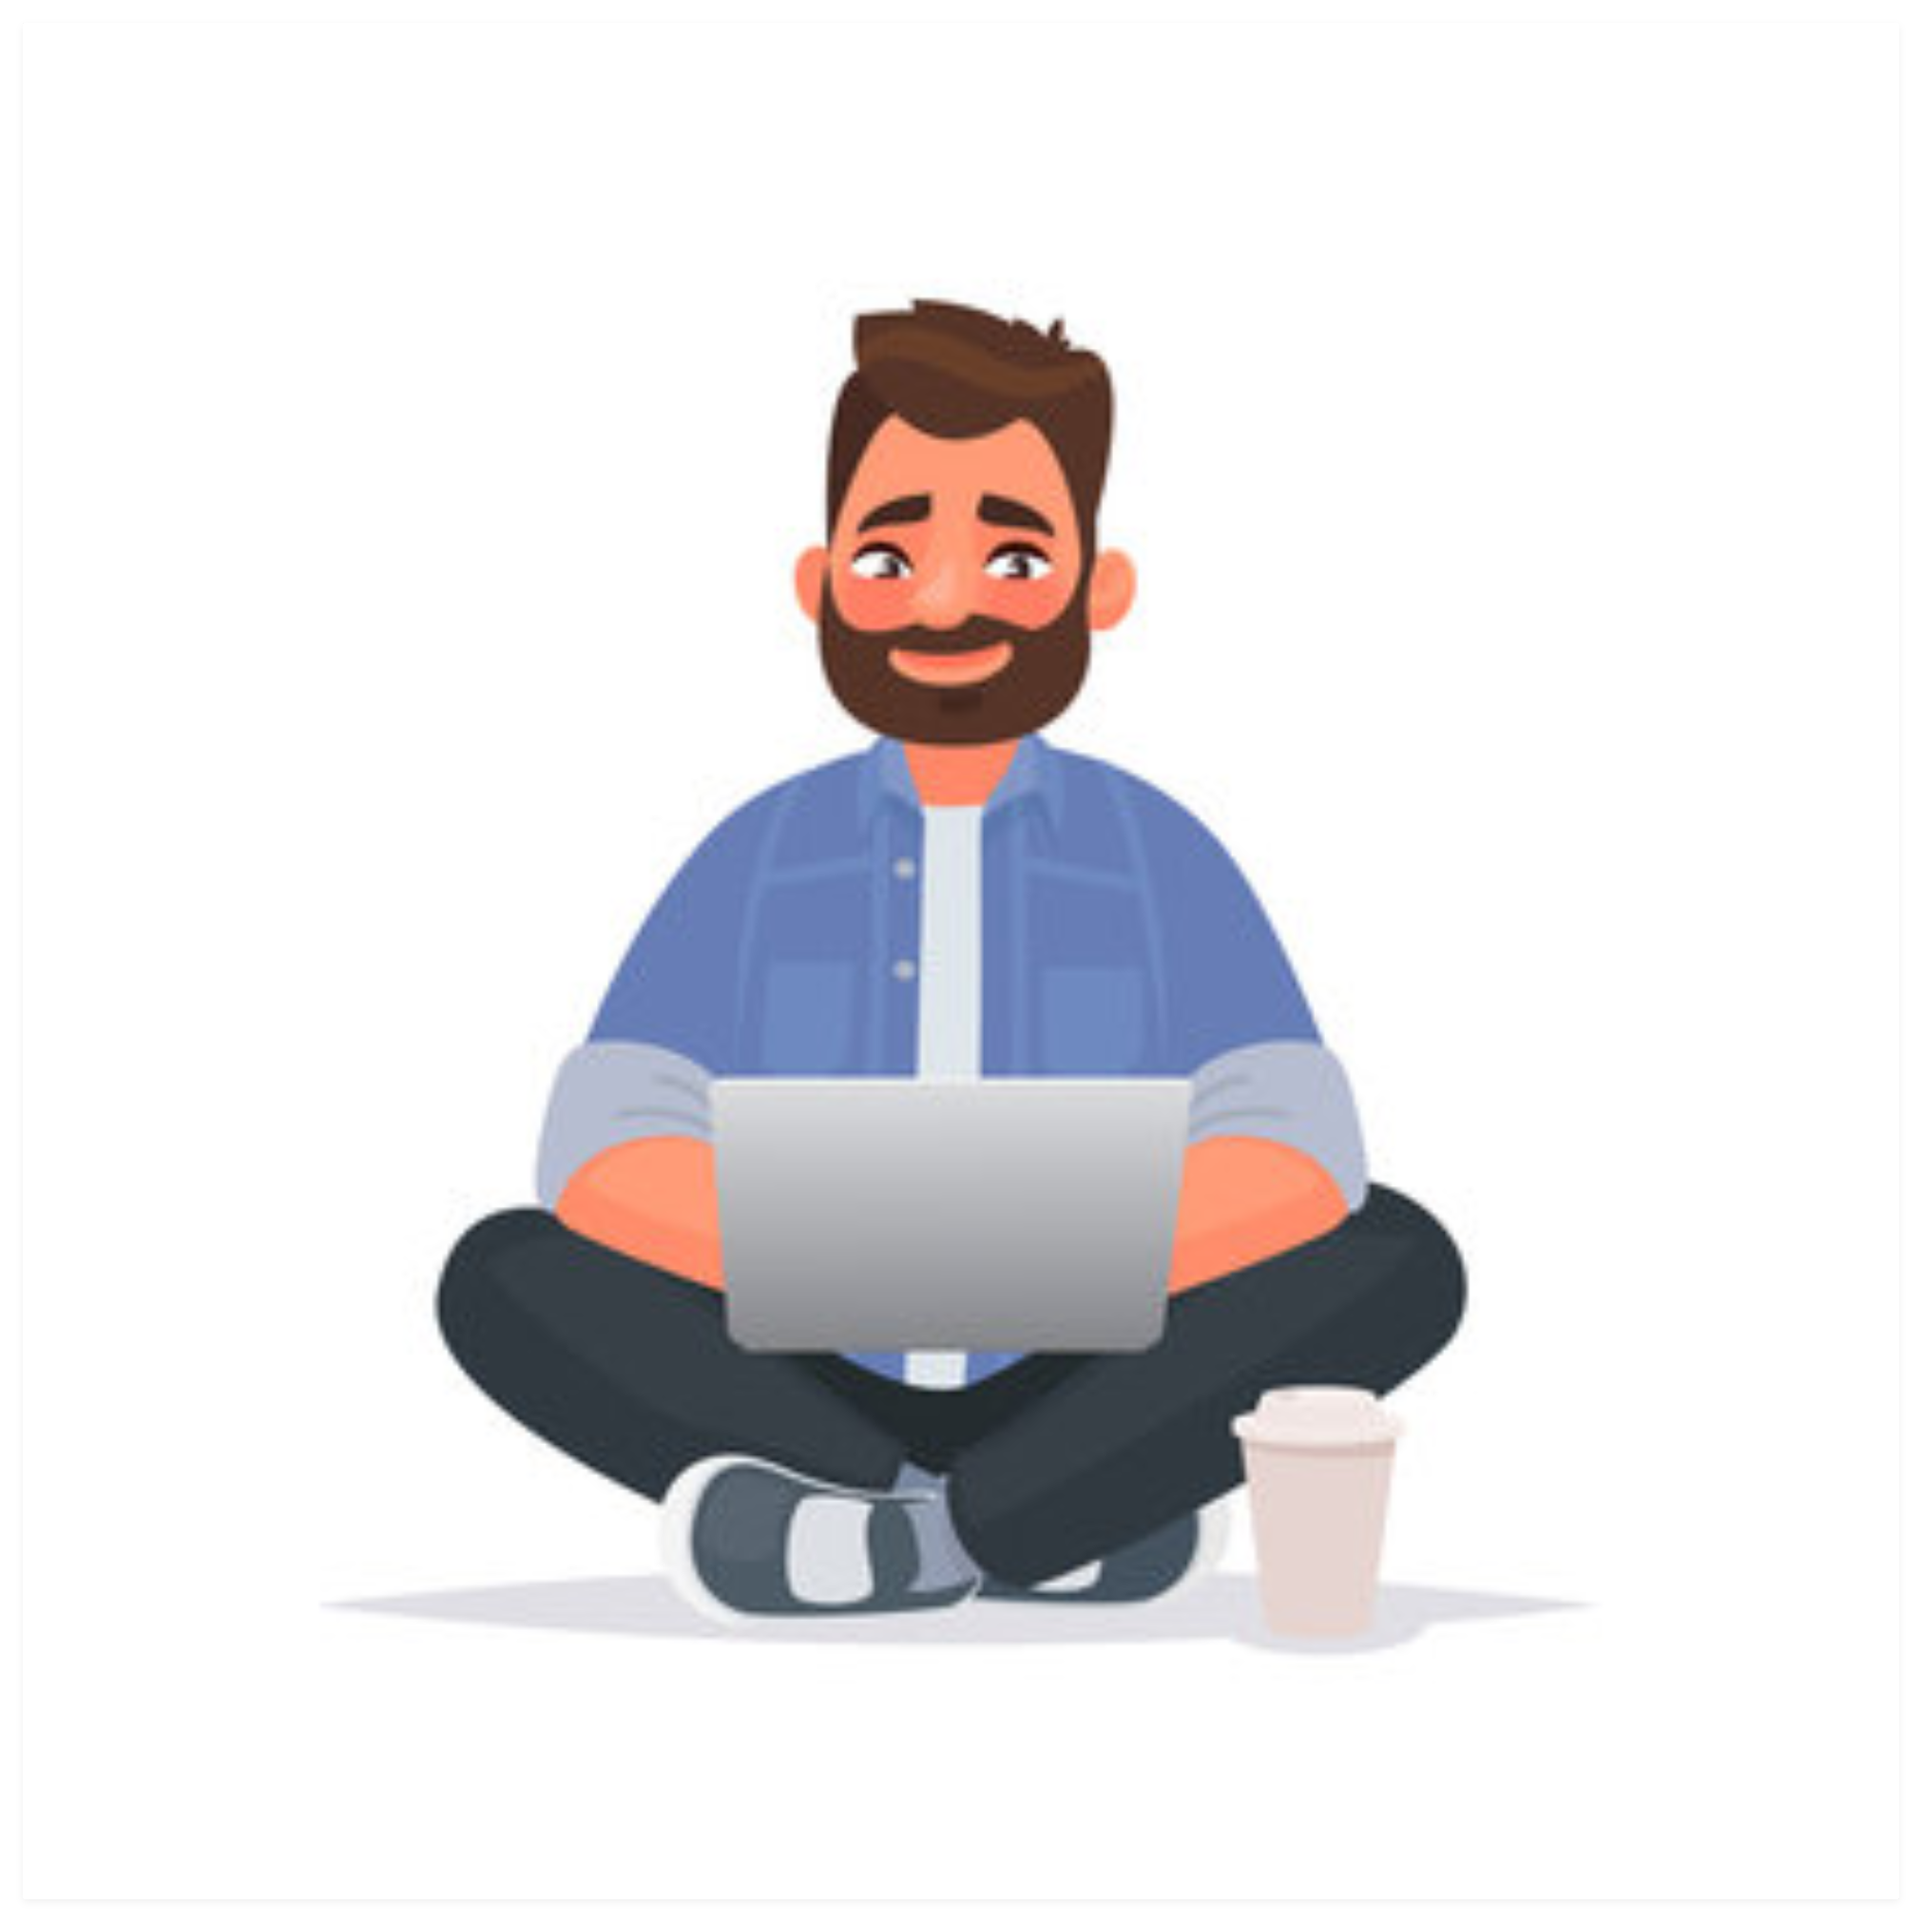
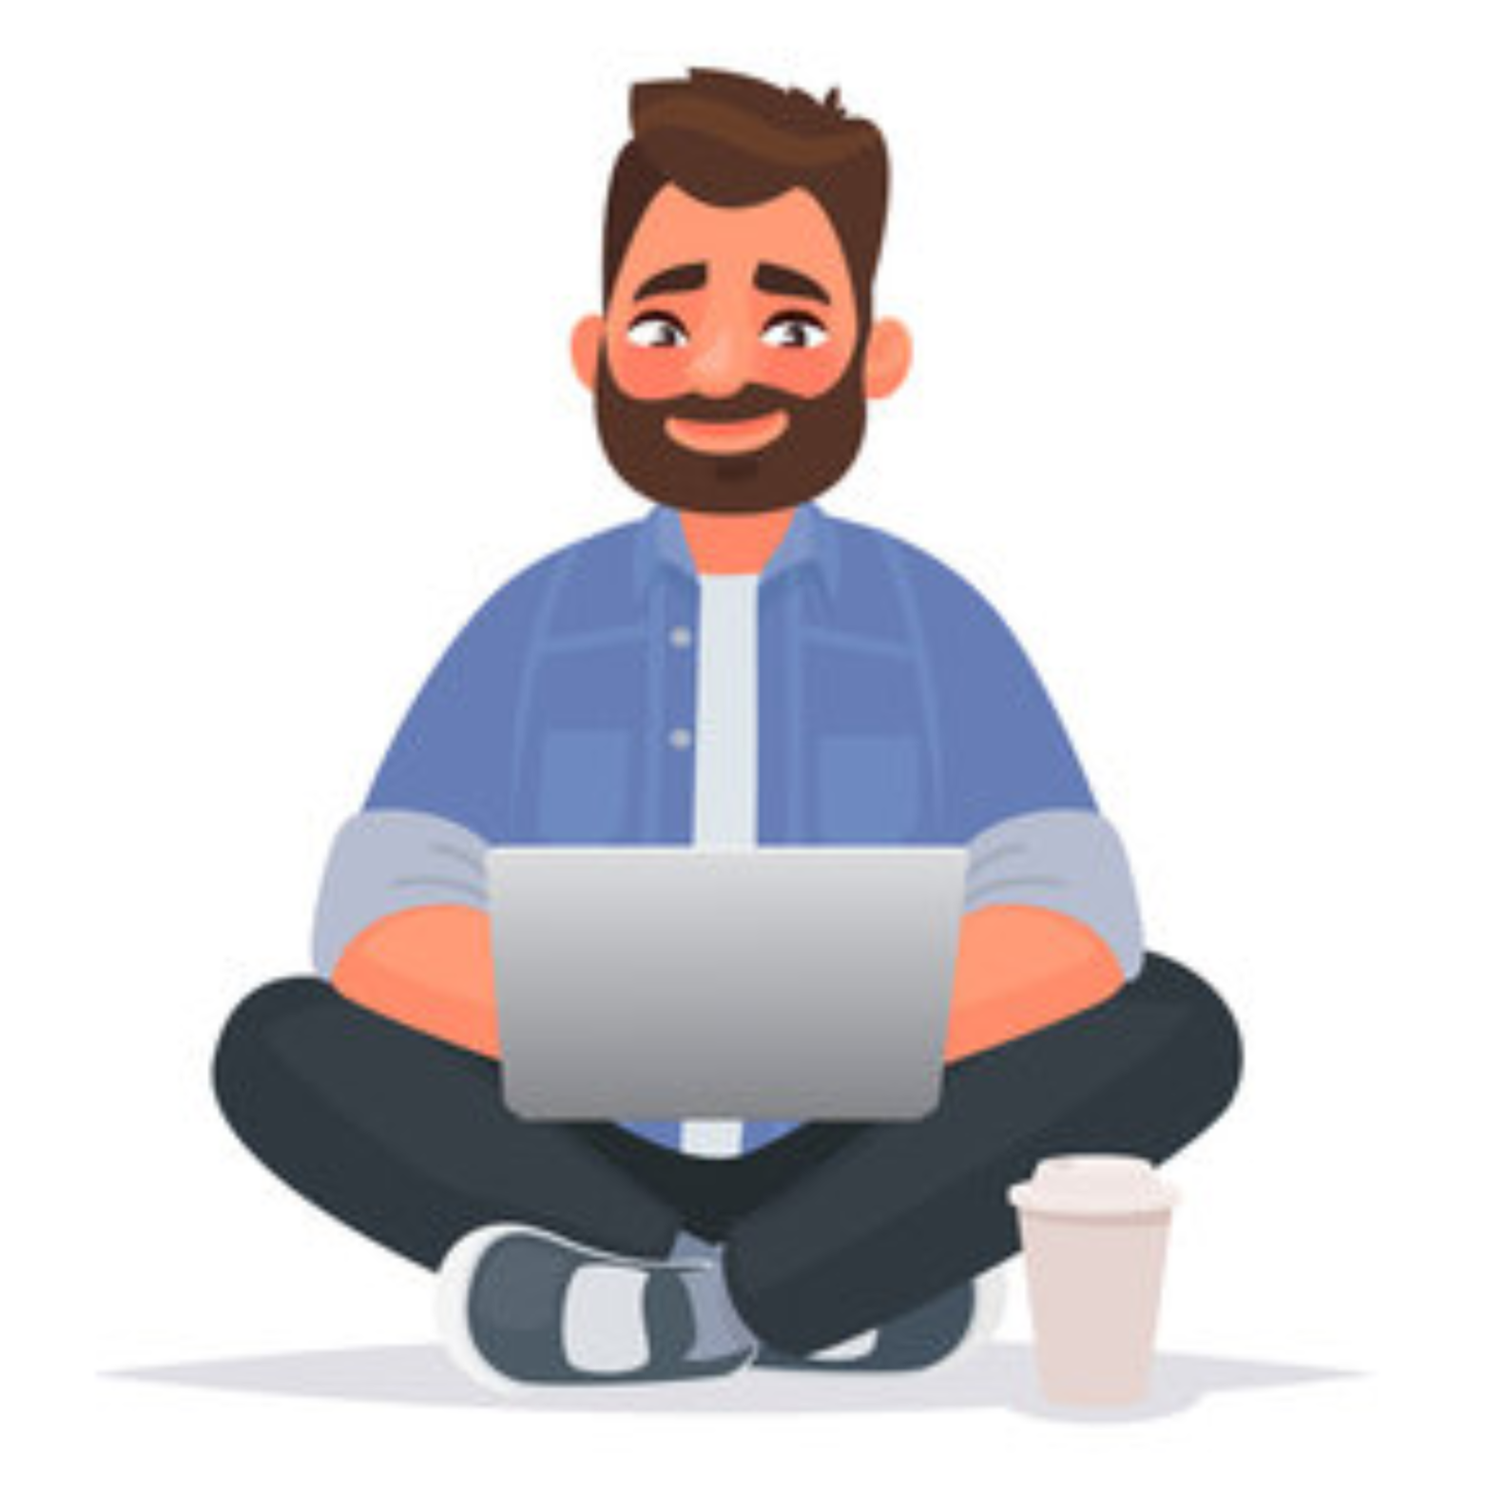
fix: css fixes

Changed region(s): [[0.0928, 0.0308, 0.8971, 0.9559]]

diff --git a/src/pages/LandingPage/ApplyForLoan/index.jsx b/src/pages/LandingPage/ApplyForLoan/index.jsx
@@ -235,22 +235,9 @@ const ApplyForLoan = () => {
               </button>
             </form>
           </div>
-          <div className="max-md:hidden">
-            <img src={ProductImage} alt="product_image" />
+          <div className="max-md:hidden w-10/12 mx-auto">
+            <img src={ProductImage} alt="product_image" className="w-full" />
           </div>
-
-          <nav className="col-span-2 max-md:hidden">
-            <ul className="flex items-center justify-center">
-              <li className="px-4 cursor-pointer" id="myBtn">
-                Twitter
-              </li>
-              <li className="px-4 cursor-pointer">Facebook</li>
-              <li className="px-4 cursor-pointer">LinkedIn</li>
-              <li className="px-4 cursor-pointer">Instagram</li>
-              <li className="px-4 cursor-pointer">Phone Number</li>
-              <li className="px-4 cursor-pointer">Email Info</li>
-            </ul>
-          </nav>
         </div>
       )}
     </>

diff --git a/src/pages/LandingPage/GetStarted/index.jsx b/src/pages/LandingPage/GetStarted/index.jsx
@@ -39,7 +39,7 @@ const GetStarted = () => {
         <br />
       </div>
 
-      <div className="max-md:hidden" id="main-illustration">
+      <div className="max-md:hidden w-10/12 mx-auto" id="main-illustration">
         <img src={GetStartedImage} alt="get_started_image" />
       </div>
     </div>
